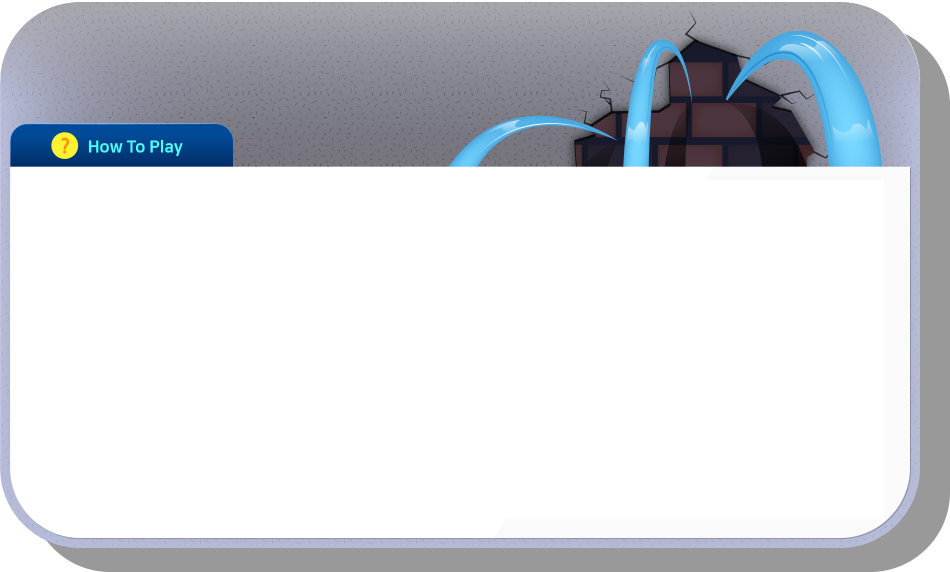
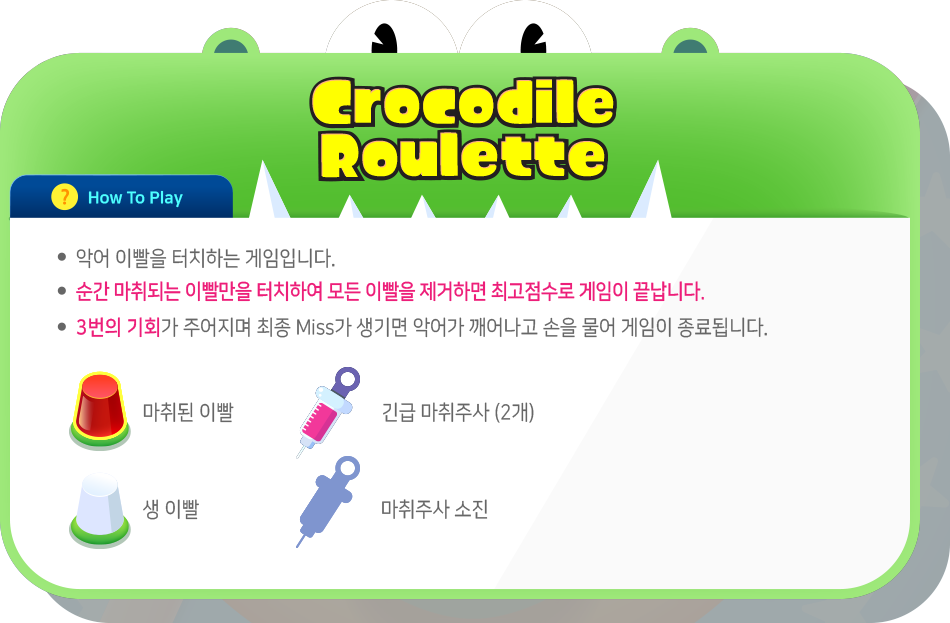
디자인맞춤 this.loopfun 조정필요함

diff --git a/html/index.html b/html/index.html
@@ -23,6 +23,9 @@
 				<span class="scr_txt tp01 scoreTeethLeng"></span>
 				<span class="scr_txt tp02 scoreTeethTotal"></span>
 			</div>
+			<div class="tnd_eye_area">
+				<div class="ey_img eyeImg"> </div>
+			</div>
 			<div class="tnd_area tndArea">
 				<div class="tnd_wrap teethWrap"></div>
 			</div>
@@ -33,30 +36,6 @@
 		<div id="ybm_game_2_ready" class="game_ready">
 			<div>
 				<span>How To Play</span>
-				<div class="guide" title="게임방법">
-					<p>구멍난 터널을 고치러 가는도중 다리가 끊어졌습니다.</p>
-					<p>크레인을 좌우로 움직여 바위를 떨어트려 쌓아 다리 기둥을 만드세요. </p>
-					<p>
-						<span class="c_red bold">안전선(Safety line)</span>까지 돌기둥을 쌓으면 자동으로 다리가 연결 됩니다.</p>
-					<p>바위를 떨어트려 쌓지 못해 물이
-						<span class="c_red bold">제한선(20미터)</span>까지 차오르면 다리가
-						<br/>무너지고 게임이 종료됩니다.</p>
-				</div>
-				<ul class='item' title="게임아이템">
-					<li>+5점
-						<span class="c_red bold">실패시 0.5미터 수면상승</span>
-					</li>
-					<li>+10점
-						<span class="c_red bold">실패시 1미터 수면상승</span>
-					</li>
-					<li>+15점
-						<span class="c_red bold">실패시 1.5미터 수면상승</span>
-					</li>
-					<li>+20점
-						<span class="c_red bold">실패시 2미터 수면상승</span>
-					</li>
-				</ul>
-				<button type="button" id="sound_set" class="on">소리 켬</button>
 				<button type="button" id="start_game_2" class="start_game">시작</button>
 			</div>
 		</div>
@@ -69,6 +48,9 @@
 		</div>
 		<!-- 게임 공통 : E -->
 		<button id="ios_audio_button" class="">사운드 온오프</button>
+		<div class="pop_miss popMiss">
+			<span class="pop_img popMissImg"></span>
+		</div>
 	</div>
 	<script type="text/javascript">
 	//var gamePath = Game.gamePath[Game.gameCode]; //폴더경로 변경값
@@ -79,13 +61,16 @@
 			teethLength: 12,
 			anesth: 3,
 			cursor: null,
-			level: 2,
+			level: 4,
 			maxGamePoint: 25,
 			scoreTeethTotal: '.scoreTeethTotal',
 			scoreTeethLeng: '.scoreTeethLeng',
 			anesthWrap: '.anesthWrap',
 			anesthImg: '.anesthImg',
 			imgCursor: '.imgCursor',
+			eye: '.eyeImg',
+			popMiss: '.popMiss',
+			popMissImg: '.popMissImg'
 		}, obj);
 		this.cavityClsName = '.cavity';
 		this.count = 0;
@@ -97,7 +82,7 @@
 		this.sound = {
 			bool: true,
 			el: '.soundPlayLst',
-			onoff: '#ios_audio_button',
+			onoff: '#ios_audio_buttonm',
 			lst: ['.sndLst.tp01', '.sndLst.tp02', '.sndLst.tp03', '.sndLst.tp04'],
 		};
 		this.mouse = { x: 0, y: 0 };
@@ -108,7 +93,7 @@
 	Crocodile.prototype = {
 		init: function() {
 			this.set().teethAppend();
-			this.set().cursor();
+			//this.set().cursor();
 			this.setSound();
 			this.loopFun();
 			this.bind();
@@ -173,7 +158,6 @@
 					$(_this.obj.teethWrap).append(html);
 				},
 				cursor: function() {
-					//this.obj.imgCurso
 					$('.tndArea').on({
 						'mousemove': function() {
 							_this.mouse.x = event.pageX + 75;
@@ -183,13 +167,24 @@
 								'top': _this.mouse.y - $('.tndArea')[0].offsetTop + 207,
 							});
 						}
-					})
+					});
+					$(document).on({
+						'mousedown': function() {
+							$(_this.obj.imgCursor).addClass('active');
+						},
+						'mouseup': function() {
+							$(_this.obj.imgCursor).removeClass('active');
+						},
+					});
 				},
 			};
 		},
 		loopFun: function() {
 			var _this = this;
-			var cnt = 1;
+			var cnt = !$('.teethEl').not('[data-count=0]').length ? 0 : 1;
+			if (!$(this.obj.eye).is('.active')) {
+				$(this.obj.eye).addClass('active');
+			}
 			_this.loop = setInterval(function() {
 				if (_this.count >= (_this.loopCount - 1) || _this.count < 0) {
 					cnt = cnt * -1;
@@ -248,12 +243,38 @@
 				if (!this.obj.anesth) {
 					this.gameFinishFun(this.bool);
 					return;
-				}
-				if (!this.gameFinish) {
-					_this.loopFun();
+				} else {
+					this.actCallb(true).miss();
 				}
 			}
-
+		},
+		actCallb: function(bool) {
+			var _this = this;
+			return {
+				miss: function() {
+					$(_this.obj.teethWrap).addClass('miss');
+					$(_this.obj.eye).addClass('miss');
+					$('.blgm_in').addClass('miss').animate({
+						'callbFunValud': 0
+					}, {
+						'complete': function() {
+							$(_this.obj.popMiss).addClass('active');
+							$(_this.obj.popMissImg).addClass('animated bounceIn');
+						},
+						'duration': 600
+					});
+					setTimeout(function() {
+						$('.blgm_in').removeClass('miss');
+						$(_this.obj.teethWrap).removeClass('miss');
+						$(_this.obj.eye).removeClass('miss');
+						$(_this.obj.popMiss).removeClass('active');
+						$(_this.obj.popMissImg).removeClass('animated bounceIn');
+						if (!_this.gameFinish) {
+							_this.loopFun();
+						}
+					}, 2000);
+				},
+			};
 		},
 		scoreAnesthFun: function() {
 			var _this = this;
@@ -276,13 +297,10 @@
 
 		},
 		gameFinishFun: function(bool) {
-			if (bool) {
-				alert('성공');
-			} else {
-				alert('실패');
-			}
 			this.gameFinish = true;
 			this.gamePiontFun();
+			$('#game_2_point').text(this.gamePoint);
+			$('#game_2_next').show();
 		},
 		gamePiontFun: function() {
 			this.gamePoint = Math.round((this.successCount.length / this.obj.teethLength) * this.obj.maxGamePoint);
@@ -293,7 +311,9 @@
 	};
 
 
-	var Game = {};
+	var Game = {
+		callback: function() {}
+	};
 	var crocodile = null;
 	$('#start_game_2').off().on('click', function() {
 		$('#ybm_game_2_ready').hide();

diff --git a/html/css/style.css b/html/css/style.css
@@ -11,12 +11,15 @@ html, body{height: 100%;}
 .teethEl.active{background: blue !important; height: 1px;}*/
 .blgm_wrap{max-width: 1280px; padding: 67px 15px 15px 11px; margin: 0 auto; height: 720px; background: #5e5e5e; position: relative;}
 .blgm_in{height: 100%;  background: url(../images/tnbg_02.png) no-repeat left top; position: relative;  overflow: hidden;}
-.tnd_area{ cursor: none; position: absolute; width: 594px; height: 422px; bottom: 0px; left: 50%; margin-left: -297px;}
-.tnd_area *{cursor: none;}
-.img_cursor{width: 283px; height: 448px; position: fixed; background: url(../images/cursor.png); left: -9999999em; pointer-events: none;}
+.blgm_in.miss{background-image: url(../images/tnbg_miss.png);}
+.blgm_in:hover .img_cursor{display: block;}
+.tnd_area{ position: absolute; width: 594px; height: 422px; bottom: 0px; left: 50%; margin-left: -297px;}
+//.img_cursor{width: 283px; height: 463px; position: fixed; background: url(../images/cursor.png); left: -9999999em; pointer-events: none; display: none;}
+//.img_cursor.active{background-image: url(../images/cursor_active.png);}
 // .img_cursor{height: 50px; width: 50px; background: red; position: absolute; }
-.mob  .img_cursor{display: none;}
+// .mob  .img_cursor{display: none !important;}
 .tnd_wrap{position: absolute; left: 50px; bottom: 50px; width: 494px; height: 322px;}
+.tnd_wrap.miss{visibility: hidden;}
 .teethEl{width: 47px; height: 60px; display: inline-block; position: relative;background: url(../images/teeth.png) no-repeat left top;}
 .teethEl.cavity{background-image: url(../images/teeth_cav.png);}
 .teethEl.cavity:focus{background-image: url(../images/teeth_cav.png);}
@@ -41,6 +44,26 @@ html, body{height: 100%;}
 .anesth_wrap{overflow: hidden; position: absolute; right: 30px; top: 15px; }
 .anesth_wrap .img_anesth{width: 105px; height: 147px; float: left; background: url(../images/anesth.png)no-repeat left top;}
 .anesth_wrap .img_anesth.null{background-image: url(../images/anesth_null.png)}
+.tnd_eye_area{width: 594px; height: 216px; top: 0; left: 50%; margin-left: -297px; position: absolute;}
+.tnd_eye_area .ey_img{width: 64px; height: 100px; background: url(../images/img_nos.png) no-repeat left top; background-size: 100% auto; position: absolute; left: 394px; top: 95px;}
+.tnd_eye_area .ey_img{
+	-webkit-animation:plu 3.5s linear infinite;
+	-moz-animation:plu 3.5s linear infinite;
+	animation:plu 3.5s linear infinite;
+}
+.tnd_eye_area .ey_img.miss{visibility: hidden;}
+@keyframes plu{
+	0%{width: 64px;}
+	14%{width: 91px;}
+	28%{width: 106px;}
+	40%{width: 124px;}
+	64%{width: 106px;}
+	78%{width: 91px;}
+	100%{width: 64px;}
+}
+.pop_miss{background: rgba(0,0,0,.7); position: absolute; left: 0; top: 0; text-align: center; width: 100%; height: 100%; z-index: 10; display: none;}
+.pop_miss .pop_img{width: 100%; height: 100%; background: no-repeat url(../images/img_miss.png) center center; background-position: center calc(50% + 50px); display: block;}
+.pop_miss.active{display: block;}
 /**/
 .c_red{color: #ed1e79 !important;}
 .bold{font-weight: bold !important;}
@@ -61,19 +84,19 @@ html, body{height: 100%;}
 }
 #ybm_game_2_ready {
 	position:absolute;
-	width:1250px;
-	height:656px;
+	width:1254px;
+	height:638px;
 	background:rgba(0,0,0,0.8);
-	top:50px;
-	left:15px;
+	top:67px;
+	left:11px;
 	z-index:50
 }
 #ybm_game_2_ready>div{
 	position:relative;
 	width:951px;
-	height:572px;
+	height:623px;
 	background:url(../images/bg_howto.png) no-repeat;
-	margin:78px auto 0;
+	margin:5px auto 0;
 	box-sizing : border-box;
 	padding-top:149px;
 	padding-left:11px;
@@ -156,10 +179,10 @@ html, body{height: 100%;}
 }
 .game_over{	
 	position:absolute;
-	width:1250px;
-	height:656px;
-	top:50px;
-	left:15px;
+	width:1254px;
+	height:638px;
+	top:67px;
+	left:11px;
 	background:rgba(0,0,0,0.5);
 	z-index:100;
 	display : none;
@@ -170,7 +193,7 @@ html, body{height: 100%;}
 	height:589px;
 	background:url(../images/bg_next.png) no-repeat;
 	box-sizing:border-box;
-	margin:78px 0 0 150px;
+	margin:30px 0 0 150px;
 	padding:164px 0 0 0px;
 	position:relative;
 	text-align : center;
